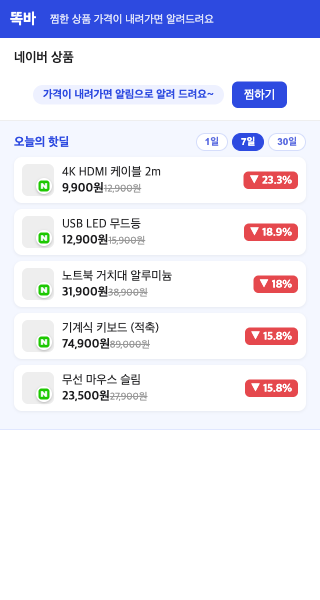
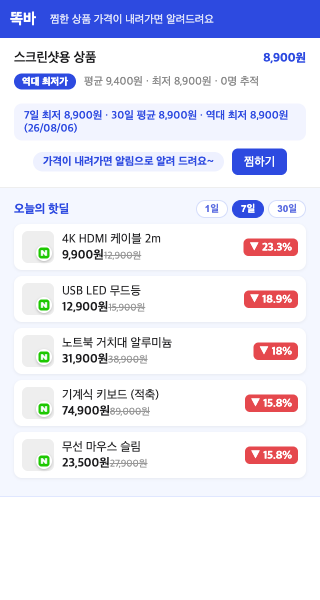
docs(store): 웨일 심사용 스크린샷 최종본 반영 + CHANGELOG (T-96a)
- shop-wisebar-01.png/02.png: 데모 데이터 주입 후 캡처 (현재 상품 가격 통계 + 핫딜 5개)
- capture.js 전체 검증 완료: 주입→캡처→자동 정리 (서버 잔여 404 확인)

diff --git a/docs/CHANGELOG.md b/docs/CHANGELOG.md
@@ -1,5 +1,19 @@
 # 똑바(Shop WiseBar) 변경 이력
 
+## v0.10.4-post (2026-08-06) — [server+store] 웨일 심사용 스크린샷 자동 캡처 (T-96a)
+
+### 도구 (T-96a)
+- **자동 캡처 스크립트**: `scripts/store-capture/capture.js` — 웨일 실행 → 확장 unpacked 로드 → 서버에 데모 데이터 주입(핫딜 5개 + 현재 상품 가격 이력) → 팝업 캡처 2장(`docs/screenshots/store/shop-wisebar-{01,02}.png`) → **데모 데이터 자동 정리**. `playwright-core` 사용
+- **수동 정리**: `scripts/store-capture/cleanup.js` — capture 비정상 종료 시 잔여 demo 상품 삭제
+- **가이드**: `docs/store/SCREENSHOT_GUIDE.md` — 자동/수동 캡처 방법 + 스토어 제출 체크리스트
+
+### 서버 (T-96a)
+- **`DELETE /products/{id}`** 추가 — 데모 데이터 정리용. FK 참조 테이블(watches/alerts/price_daily_stats/product_relations/price_points)을 정리 후 상품 삭제, 없으면 204(idempotent)
+- pytest `test_demo_cleanup.py` 2건 추가 → **34건 전체 통과**
+
+### 검증
+- 실서버 배포 완료 (`DELETE /products/{id}` 204 확인) — 이전 캡처 실행에서 정리 실패했던 demo 상품 5개 수동 정리 후, 캡처 스크립트 전체 재실행: 팝업 상태 정상(현재 상품 8,900원 + 평균/최저 + 핫딜 5개) + 데모 자동 정리 완료 + 잔여 404 확인
+
 ## v0.10.4-post (2026-08-06) — [server] 코드 리뷰 후속: 버그 수정 + 리팩토링 (T-95)
 
 ### 버그 수정 (T-95a)
